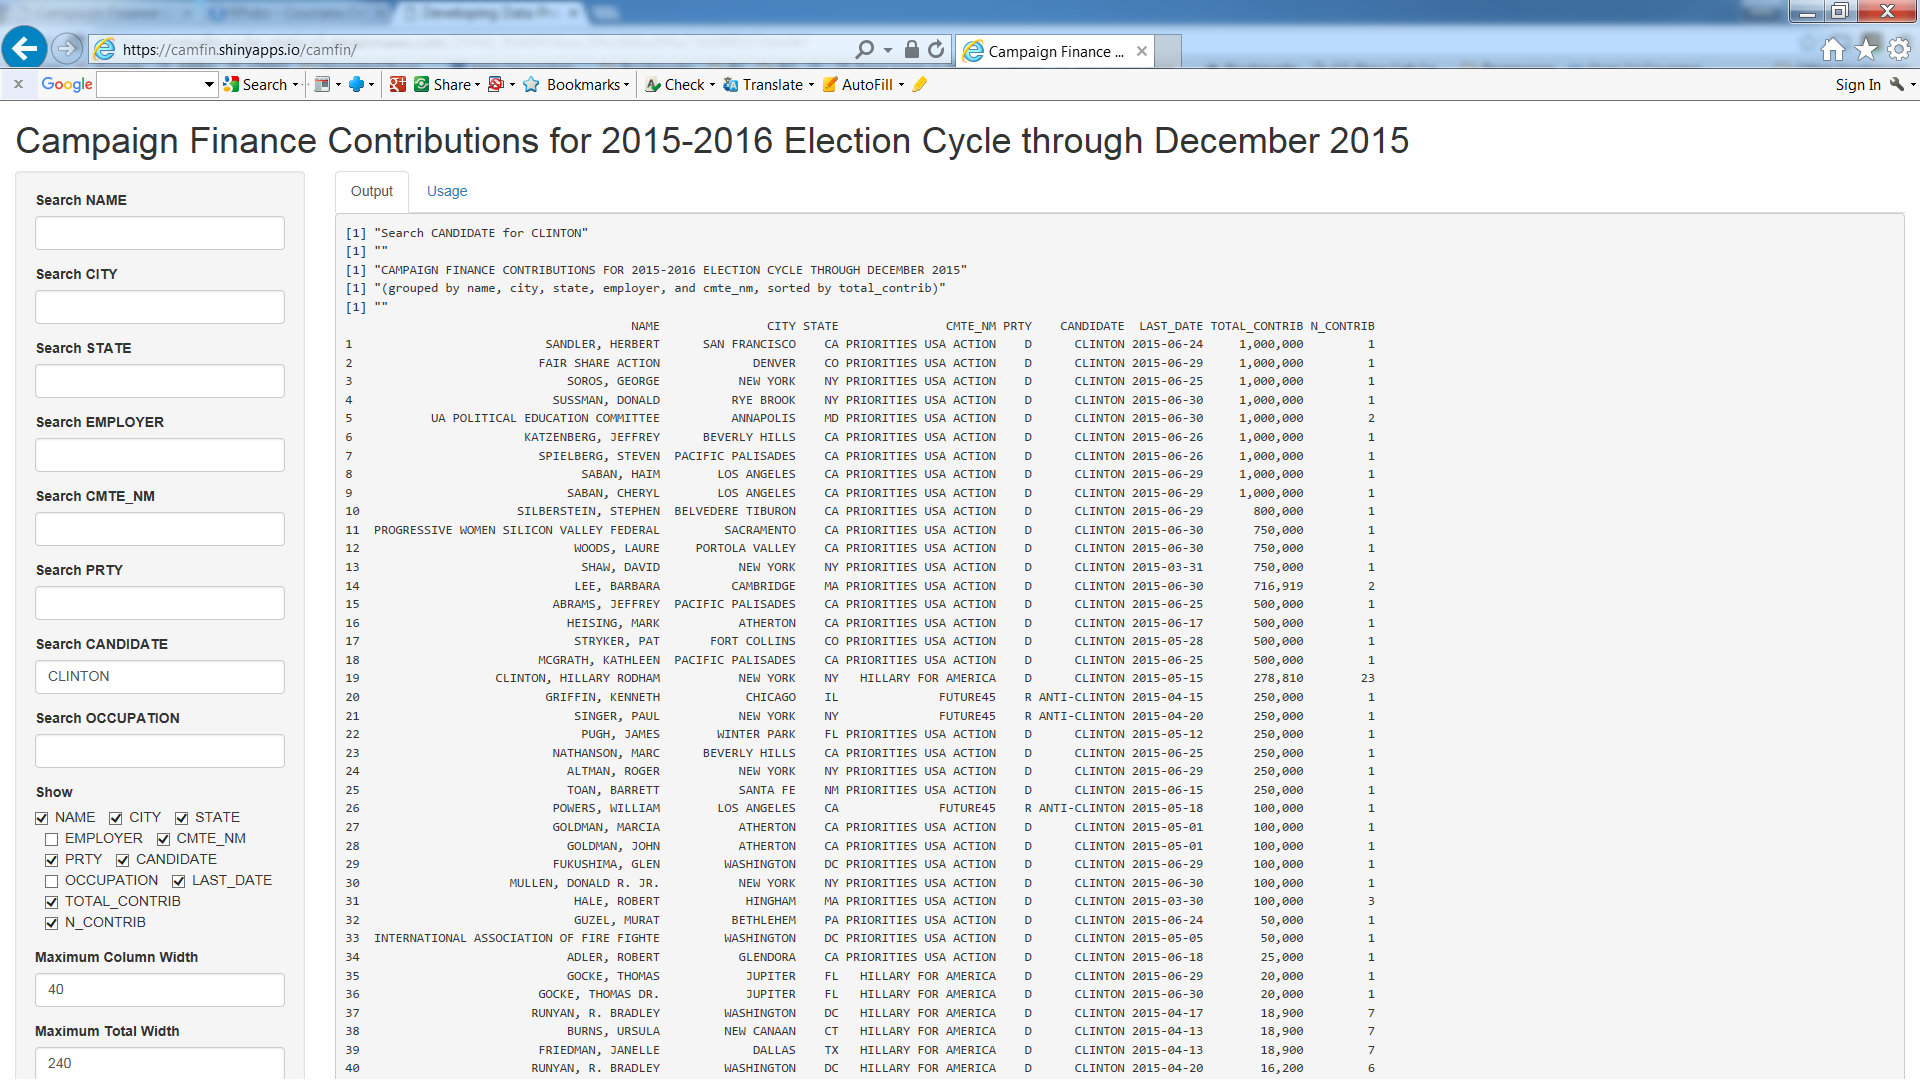
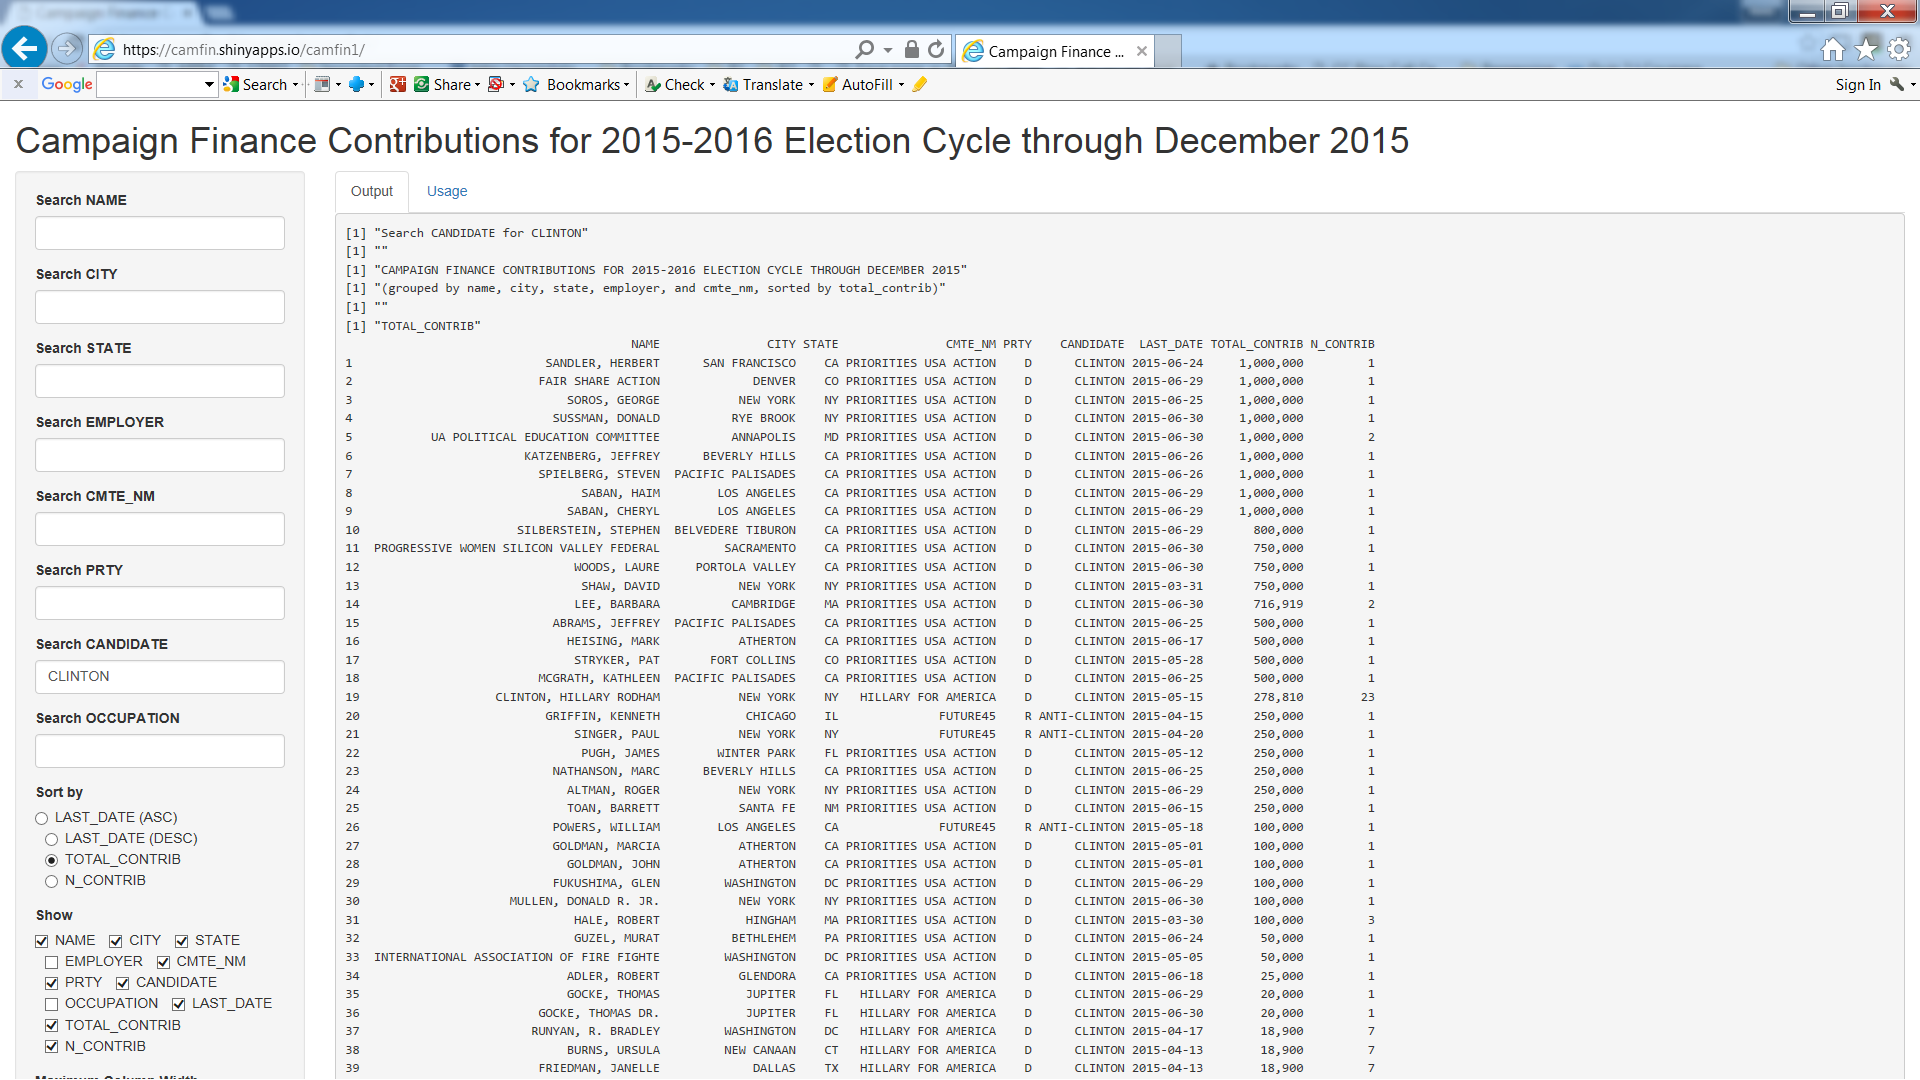
Add sort radio buttons, update presentation, and update Usage tab.

diff --git a/camfinPres.md b/camfinPres.md
@@ -8,13 +8,18 @@ height: 900
 Project Details
 ========================================================
 
-Consists of a Shiny application to filter campaign finance data from the FEC (Federal Election Committee)
+Consists of a Shiny application to filter campaign finance data from the FEC (Federal Election Committee).
 
-Data is from the 2015-2016 election cycle through December 2015
+Data is from the 2015-2016 election cycle through December 2015.
 
-URL of Shiny app: https://camfin.shinyapps.io/camfin/ 
+User can select to display any of 11 variables (shown on next page), filter on the contents of any of the first 8,
+and sort on any of the last 3.
 
-URL of Git-hub:
+Usage instructions can be seen by clicking on Usage tab.
+
+URL of Shiny app: https://camfin.shinyapps.io/camfin1/ 
+
+URL of Git-hub: https://github.com/camfin/camfin1
 
 Variables
 ========================================================
